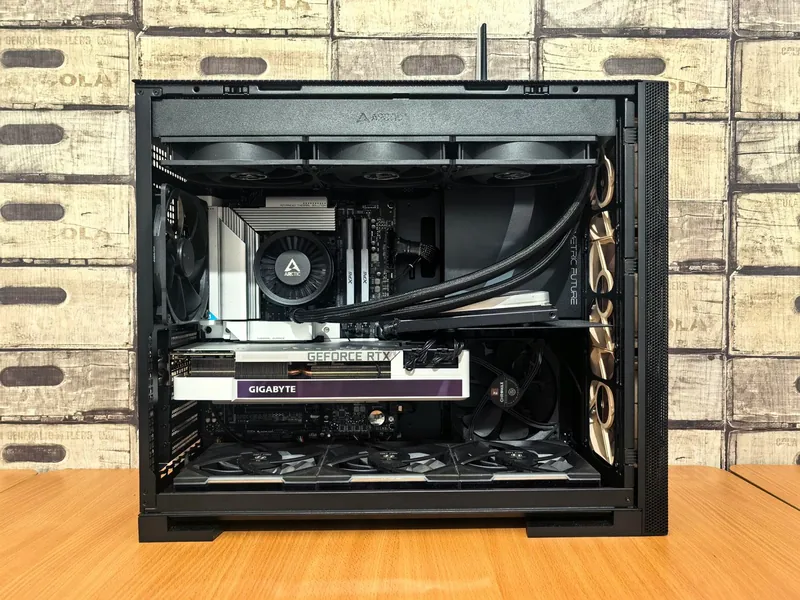
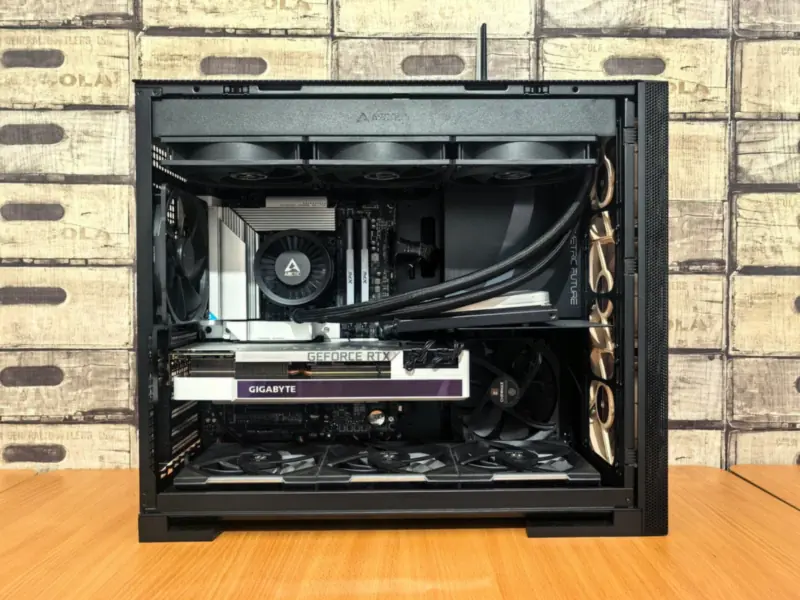
fix: shorter Arabic title and description, lighter IT hardware photo
Arabic title 74 -> 64 characters and meta description 163 -> 147, so
Google shows them in full. it-hardware-support-800.webp re-encoded
94 KB -> 50 KB with no visible change.

diff --git a/ar/index.html b/ar/index.html
@@ -8,9 +8,9 @@
     <!-- ═══════════════════════════════════════════════════
        SEO
   ═══════════════════════════════════════════════════ -->
-    <title>First Emirates Computers | حلول تقنية المعلومات والأنظمة الأمنية في أبوظبي</title>
+    <title>First Emirates Computers | حلول تقنية المعلومات والأمن في أبوظبي</title>
     <meta name="description"
-        content="مُكامل أنظمة تقنية المعلومات والأمن في أبوظبي منذ 2011: CCTV، والشبكات، والكابلات الهيكلية، والتحكم في الدخول، وأجهزة تقنية المعلومات، وAMC في جميع أنحاء الإمارات.">
+        content="مُكامل أنظمة تقنية المعلومات والأمن في أبوظبي منذ 2011: CCTV والشبكات والكابلات الهيكلية والتحكم في الدخول وأجهزة تقنية المعلومات وAMC في الإمارات.">
     <meta name="keywords"
         content="First Emirates Computers, حلول تقنية المعلومات أبوظبي, تركيب أنظمة CCTV الإمارات, الكابلات الهيكلية, التحكم في الدخول, أجهزة البصمة, الشبكات, AMC, شركة تقنية معلومات مصفح, حلول تقنية المعلومات دبي">
     <!-- Search engines may index; AI/data crawlers are asked not to use the content (see robots.txt).
@@ -328,7 +328,7 @@
       "@type": "WebPage",
       "@id": "https://firstemirates.forgedots.website/ar/#webpage",
       "url": "https://firstemirates.forgedots.website/ar/",
-      "name": "First Emirates Computers | حلول تقنية المعلومات والأنظمة الأمنية في أبوظبي",
+      "name": "First Emirates Computers | حلول تقنية المعلومات والأمن في أبوظبي",
       "isPartOf": {
         "@id": "https://firstemirates.forgedots.website/#website"
       },
